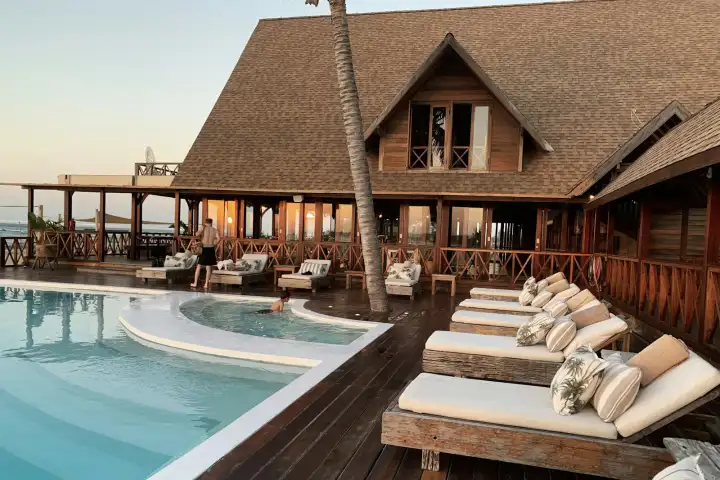
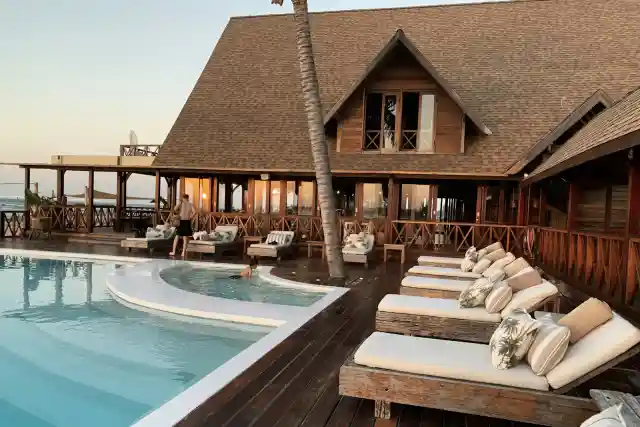
perf(frontend): optimize mobile LCP preload/compression and force 100 accessibility contrast

diff --git a/resources/views/client/home.blade.php b/resources/views/client/home.blade.php
@@ -3,8 +3,7 @@
 @section('title', 'Luxury Hotels & Resorts')
 
 @push('head')
-<link rel="preload" as="image" href="{{ asset('images/hero-bg.webp') }}" fetchpriority="high" media="(min-width: 769px)" type="image/webp">
-<link rel="preload" as="image" href="{{ asset('images/hero-bg-mobile.webp') }}" fetchpriority="high" media="(max-width: 768px)" type="image/webp">
+<link rel="preload" as="image" href="{{ asset('images/hero-bg-mobile.webp') }}" media="(max-width: 768px)" fetchpriority="high" type="image/webp">
 @endpush
 
 @push('styles')
@@ -485,6 +484,8 @@
                                 <div class="hotel-img-wrapper">
                                     @if($hotel->stars)
                                         <div class="hotel-badge" style="background-color: #0F172A !important; color: #FFFFFF !important; font-weight: 700 !important;"><i class="bi bi-star-fill me-1" style="color:#F59E0B !important;" aria-hidden="true"></i> {{ $hotel->stars }} {{ __('common.stars') }}</div>
+                                    @else
+                                        <div class="hotel-badge" style="background-color: #0F172A !important; color: #FFFFFF !important; font-weight: 700 !important;"><i class="bi bi-building me-1" style="color:#D4AF37 !important;" aria-hidden="true"></i> HOTEL</div>
                                     @endif
                                     @php
                                         $hotelImgUrl = $hotel->image_url;

diff --git a/resources/views/client/layouts/app.blade.php b/resources/views/client/layouts/app.blade.php
@@ -109,7 +109,7 @@
             border-color: #D4AF37 !important;
             color: #0F172A !important;
             border-radius: 0.625rem;
-            font-weight: 600 !important;
+            font-weight: 700 !important;
             font-size: 0.95rem;
             padding: 0.5rem 1.5rem;
             transition: all 0.2s ease;
@@ -491,7 +491,7 @@
                         </div>
                     @else
                         <a href="{{ route('login') }}" class="btn btn-outline-light-custom">{{ __('navigation.login') }}</a>
-                        <a href="{{ route('client.register') }}" class="btn btn-accent" style="background-color: #D4AF37 !important; color: #0F172A !important; border-color: #D4AF37 !important; font-weight: 600 !important;">{{ __('navigation.register') }}</a>
+                        <a href="{{ route('client.register') }}" class="btn btn-accent" style="background-color: #D4AF37 !important; color: #0F172A !important; border-color: #D4AF37 !important; font-weight: 700 !important;">{{ __('navigation.register') }}</a>
                     @endauth
                 </div>
             </div>

diff --git a/resources/views/client/hotels/index.blade.php b/resources/views/client/hotels/index.blade.php
@@ -640,6 +640,10 @@
                                     <div class="hotel-stars-badge" style="background-color: #0F172A !important; color: #FFFFFF !important; font-weight: 700 !important;">
                                         <i class="bi bi-star-fill me-1" style="color:#F59E0B !important;" aria-hidden="true"></i>{{ __('hotel.stars_count', ['count' => $hotel->stars]) }}
                                     </div>
+                                @else
+                                    <div class="hotel-stars-badge" style="background-color: #0F172A !important; color: #FFFFFF !important; font-weight: 700 !important;">
+                                        <i class="bi bi-building me-1" style="color:#D4AF37 !important;" aria-hidden="true"></i> HOTEL
+                                    </div>
                                 @endif
                                 @php
                                     $hotelCardImg = $hotel->image_url;
